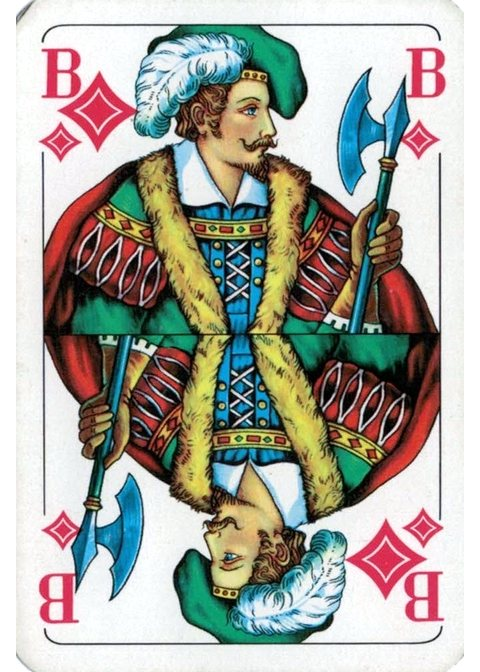
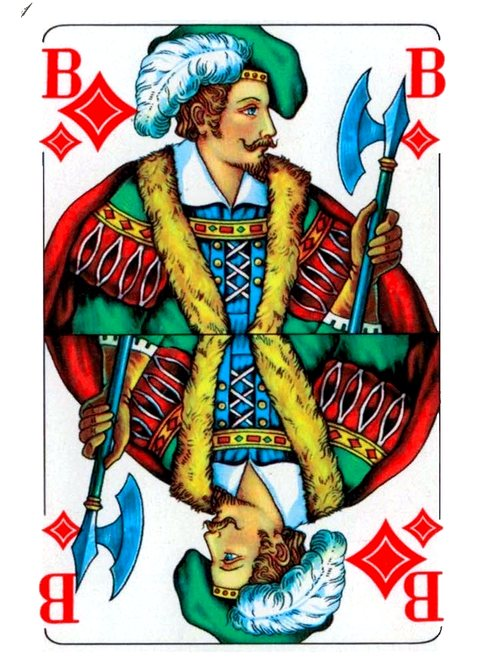
Bildkarten an die Zahlenkarten angeglichen
- Scans kräftiger (Schwarz- und Weißpunkt, mehr Sättigung), pinkes Druckrot
  zum reinen Rot der Zahlenkarten verschoben
- Graue Papierkante am Rand der Scans entfernt
- Vektorkarten ohne eigenen schwarzen Rahmen: alle Karten bekommen Rand und
  Schatten einheitlich von der Kartenkomponente

Claude-Session: https://claude.ai/code/session_01PLTrpsPJ4d8w6ohHwB31rZ

diff --git a/assets/berliner-bild/cut.py b/assets/berliner-bild/cut.py
@@ -1,7 +1,7 @@
 # Aufruf: python3 assets/berliner-bild/cut.py  (braucht Pillow und numpy)
 # Schneidet die Bildkarten aus den Commons-Scans aus, richtet sie gerade und hellt das Papier auf.
 import math, os
-from PIL import Image, ImageOps
+from PIL import Image, ImageEnhance
 import numpy as np
 
 HERE = os.path.dirname(os.path.abspath(__file__))
@@ -54,13 +54,34 @@ for rank, path in SRC.items():
         rr = runs(mm.mean(axis=1) > 0.5, 50)[0]
         cw, ch = cc[1] - cc[0], rr[1] - rr[0]
         # Nur den Rand mit Schatten weg; die Karte ist schmaler als 1 : 1,4, also seitlich weiß auffüllen
-        ix, iy = cw * 0.02, ch * 0.012
+        ix, iy = cw * 0.03, ch * 0.012
         box = (cc[0] + ix, rr[0] + iy, cc[1] - ix, rr[1] - iy)
         inner = card.crop(tuple(int(round(v)) for v in box))
         # Papierton auf Weiß ziehen (hellstes Perzentil je Kanal)
         arr = np.asarray(inner).astype(float)
-        paper = np.percentile(arr.reshape(-1, 3), 97, axis=0)
-        inner = Image.fromarray(np.clip(arr * (255.0 / paper), 0, 255).astype(np.uint8))
+        # und den Druck kräftiger machen, damit er neben den reinen Farben der Zahlenkarten nicht blass wirkt
+        flat = arr.reshape(-1, 3)
+        paper = np.percentile(flat, 97, axis=0)
+        ink = np.percentile(flat, 1.5, axis=0)
+        arr = (arr - ink) / (paper - ink) * 255.0
+        inner = Image.fromarray(np.clip(arr, 0, 255).astype(np.uint8))
+        inner = ImageEnhance.Color(inner).enhance(1.35)
+        inner = ImageEnhance.Contrast(inner).enhance(1.06)
+        # Pinkes Druckrot zum reinen Rot der Zahlenkarten schieben
+        hsv = np.asarray(inner.convert('HSV')).copy()
+        h = hsv[..., 0].astype(int)
+        pink = (h >= 222) & (hsv[..., 1] > 60)
+        hsv[..., 0] = np.where(pink, np.minimum(h + 14, 255), h).astype(np.uint8)
+        hsv[..., 1] = np.where(pink, np.minimum(hsv[..., 1].astype(int) + 25, 255), hsv[..., 1]).astype(np.uint8)
+        inner = Image.fromarray(hsv, 'HSV').convert('RGB')
+        # Graue Papierkante am äußeren Rand wegnehmen (nur unbunte, helle Pixel)
+        arr = np.asarray(inner).astype(int)
+        band = np.zeros(arr.shape[:2], bool)
+        bx, by = int(arr.shape[1] * 0.05), int(arr.shape[0] * 0.03)
+        band[:, :bx] = band[:, -bx:] = band[:by, :] = band[-by:, :] = True
+        grey = (arr.max(axis=2) - arr.min(axis=2) < 40) & (arr.min(axis=2) > 120)
+        arr[band & grey] = 255
+        inner = Image.fromarray(arr.astype(np.uint8))
         fw = min(W, round(inner.width * H / inner.height * 1.04))  # höchstens 4 % breiter ziehen
         face = Image.new('RGB', (W, H), (255, 255, 255))
         face.paste(inner.resize((fw, H), Image.LANCZOS), ((W - fw) // 2, 0))
